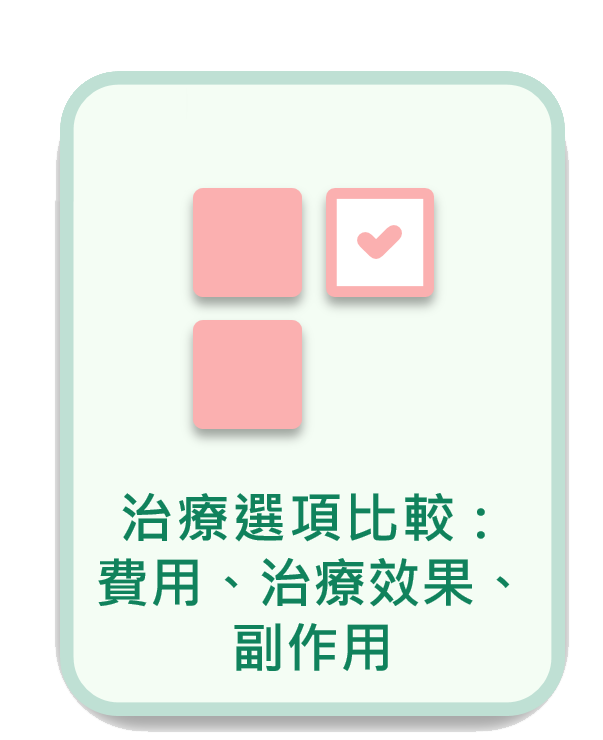
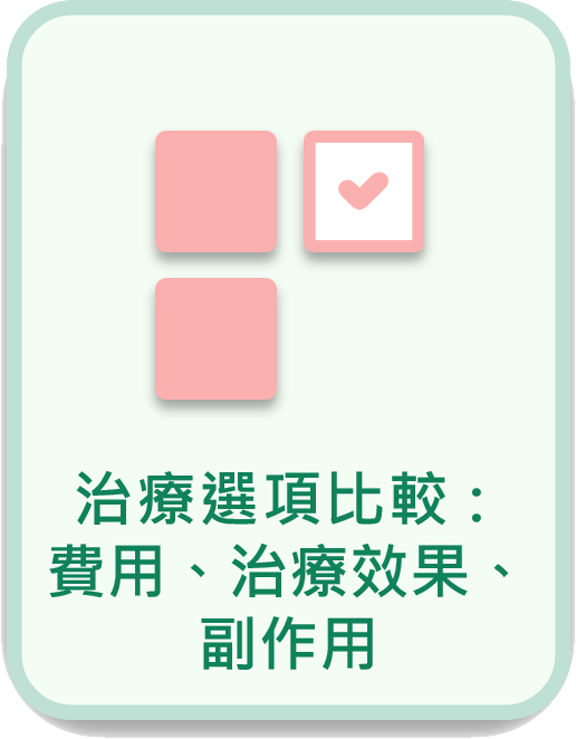
20230712 - modify some img settings of dictionary.css.

diff --git a/style/dictionary.css b/style/dictionary.css
@@ -10,7 +10,7 @@
 }
 
 img {
-    max-height: 80vh;
+    max-height: 70vh;
     max-width: 30vw;
     height: auto;
     width: auto;
@@ -19,7 +19,7 @@ img {
 }
 
 img {
-    --g: 4px; /* the gap */
+    --g: 3%; /* the gap */
     --b: 12px; /* border thickness*/
     --c: #ffffff; /* the color */
 
